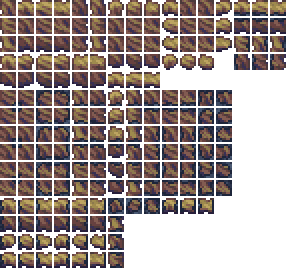
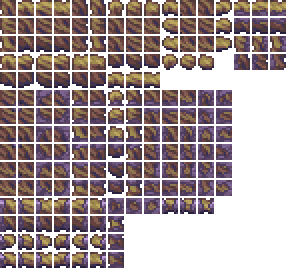
sandstone merge change

diff --git a/Tiles/Abyss/SulphurousSandstone.cs b/Tiles/Abyss/SulphurousSandstone.cs
@@ -37,7 +37,7 @@ namespace CalamityMod.Tiles.Abyss
         }
         public override bool TileFrame(int i, int j, ref bool resetFrame, ref bool noBreak)
         {
-            TileFraming.CustomMergeFrame(i, j, Type, ModContent.TileType<AbyssGravel>(), false, false, false, false, resetFrame);
+            TileFraming.CustomMergeFrame(i, j, Type, ModContent.TileType<SulphurousShale>(), false, false, false, false, resetFrame);
             return false;
         }
         public override void RandomUpdate(int i, int j)
